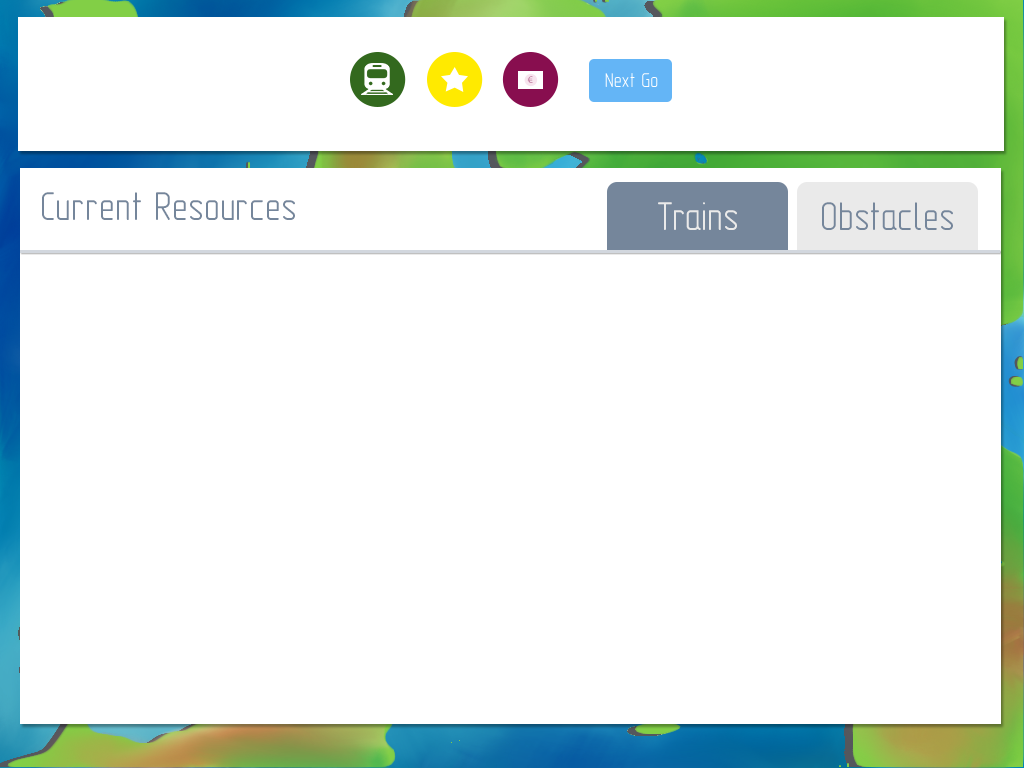
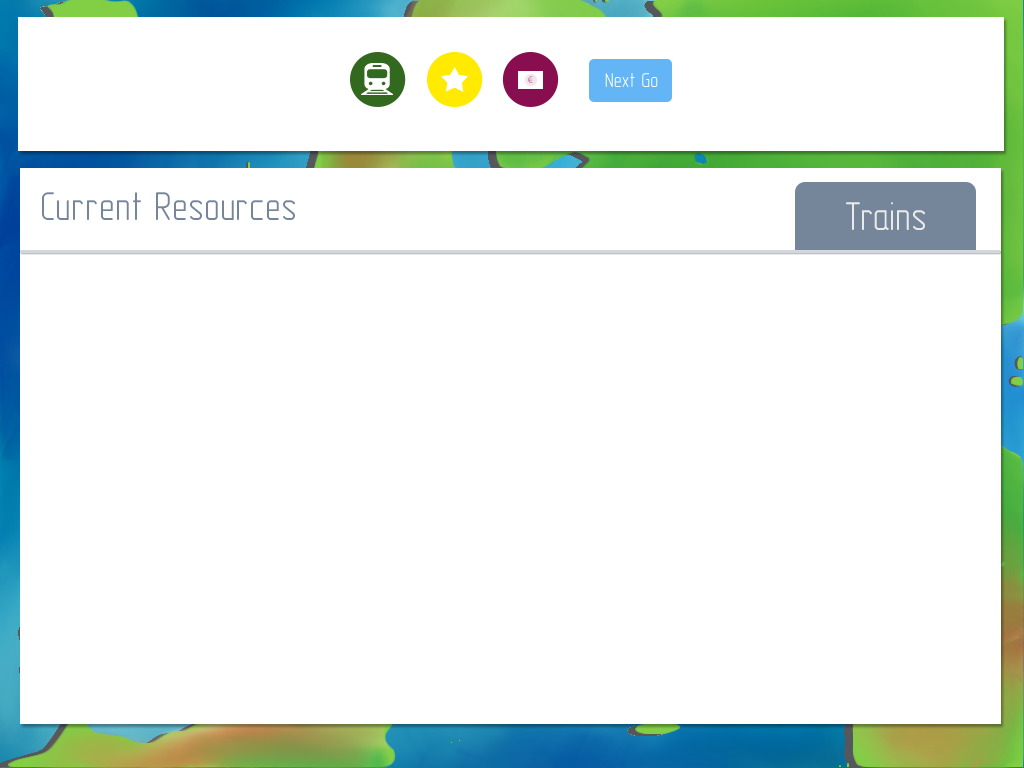
Remove current resources obstacles

Changed region(s): [[0.5938, 0.2188, 0.9688, 0.3438]]

diff --git a/TaxE/core/src/com/fvs/taxe/scenes/CurrentResourcesScene.java b/TaxE/core/src/com/fvs/taxe/scenes/CurrentResourcesScene.java
@@ -173,20 +173,6 @@ public class CurrentResourcesScene extends GameWindowedGUIScene {
 		Add(trainsButton);
 		// ---------------------
 		
-		// Create obstacles button
-		Button obstaclesButton = new Button(this) {
-			@Override
-			public void onClickEnd()
-			{
-				obstaclesPressed();
-			}
-		};
-		obstaclesButton.setPosition(798, 518);
-		obstaclesButton.setSize(180, 70);
-		obstaclesButton.setTexture(buttonText);
-		Add(obstaclesButton);
-		// ---------------------
-		
 		//Create Exit Button
 				Button exitButton = new Button(this) {
 					@Override
@@ -228,13 +214,6 @@ public class CurrentResourcesScene extends GameWindowedGUIScene {
 		magLevUsage.setAlpha(1);
 		kingUsage.setAlpha(1);
 		// ---------------------
-		
-	}
-	
-	public void obstaclesPressed()
-	{
-		System.out.println("obstaclesPressed");
-		Game.pushScene(parentGame.makeDialogueScene("Coming soon!"));
 		
 	}
 	
